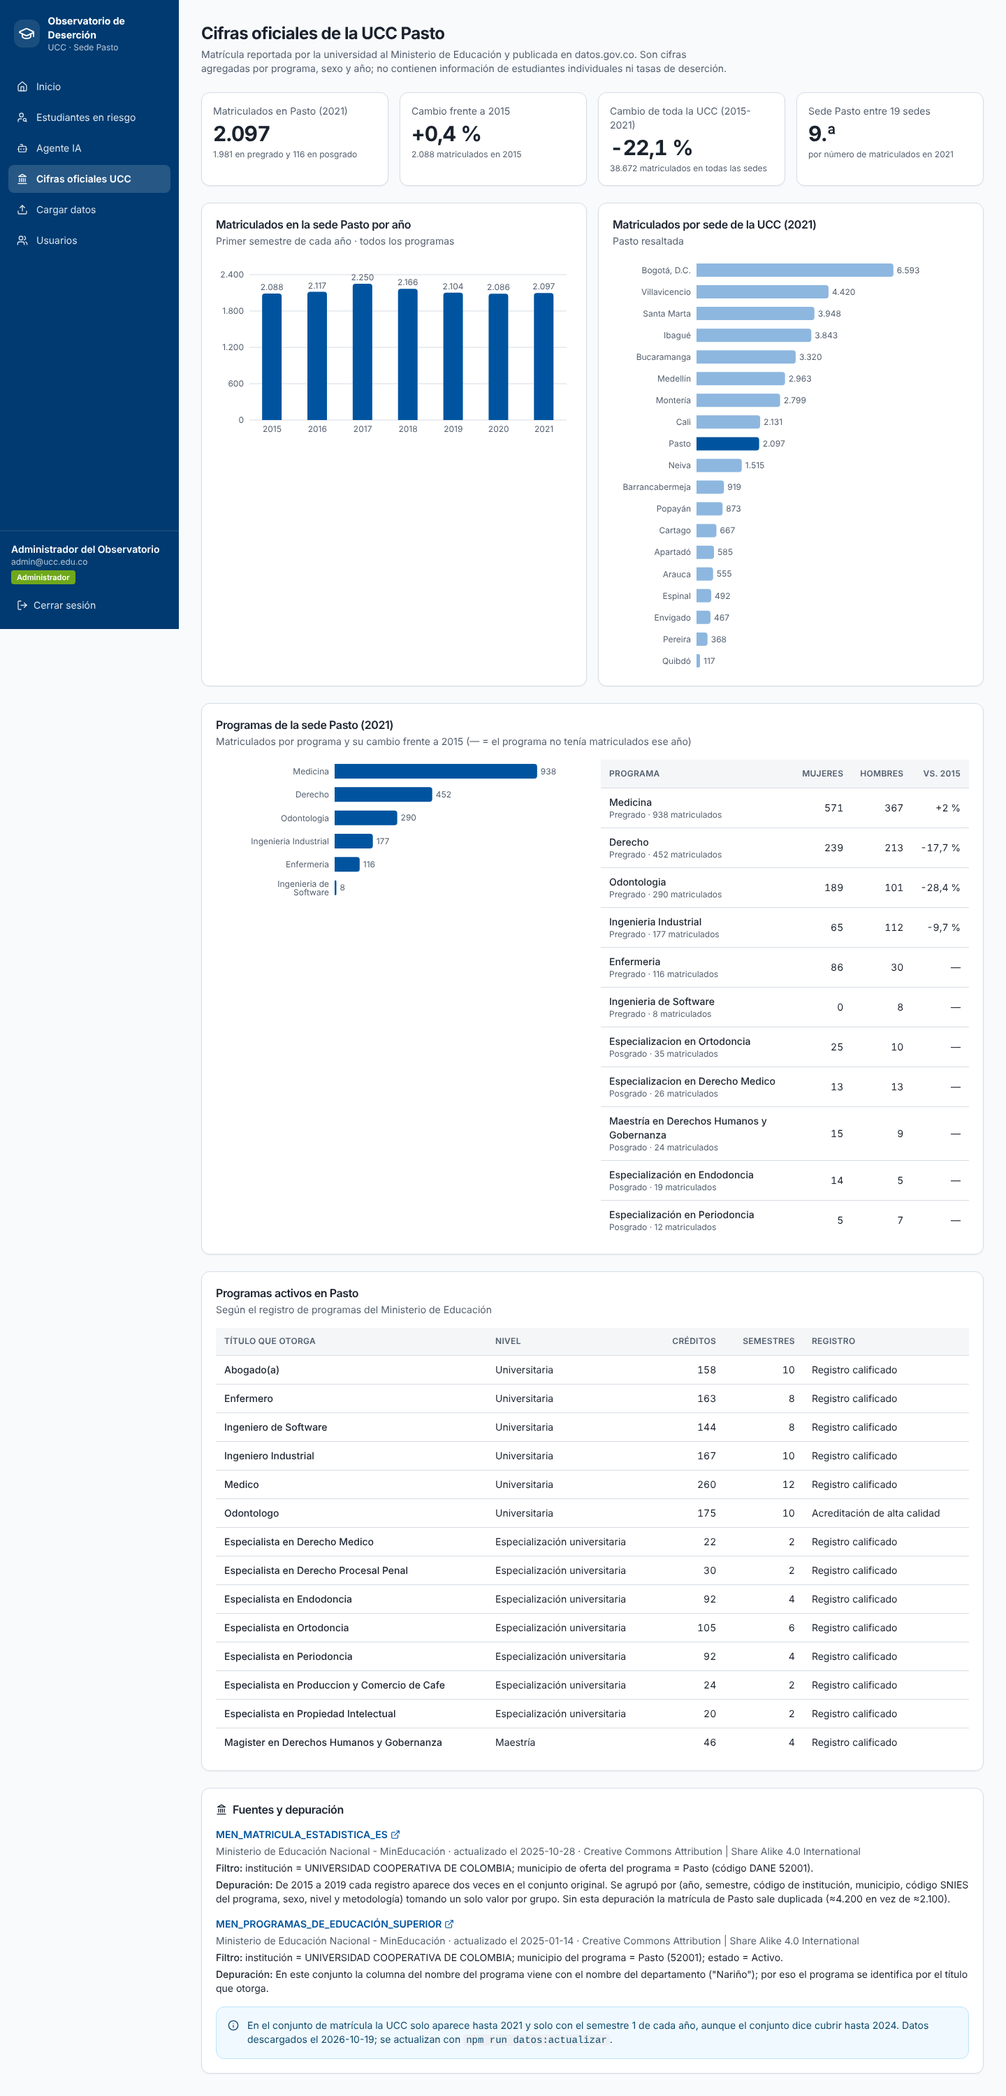
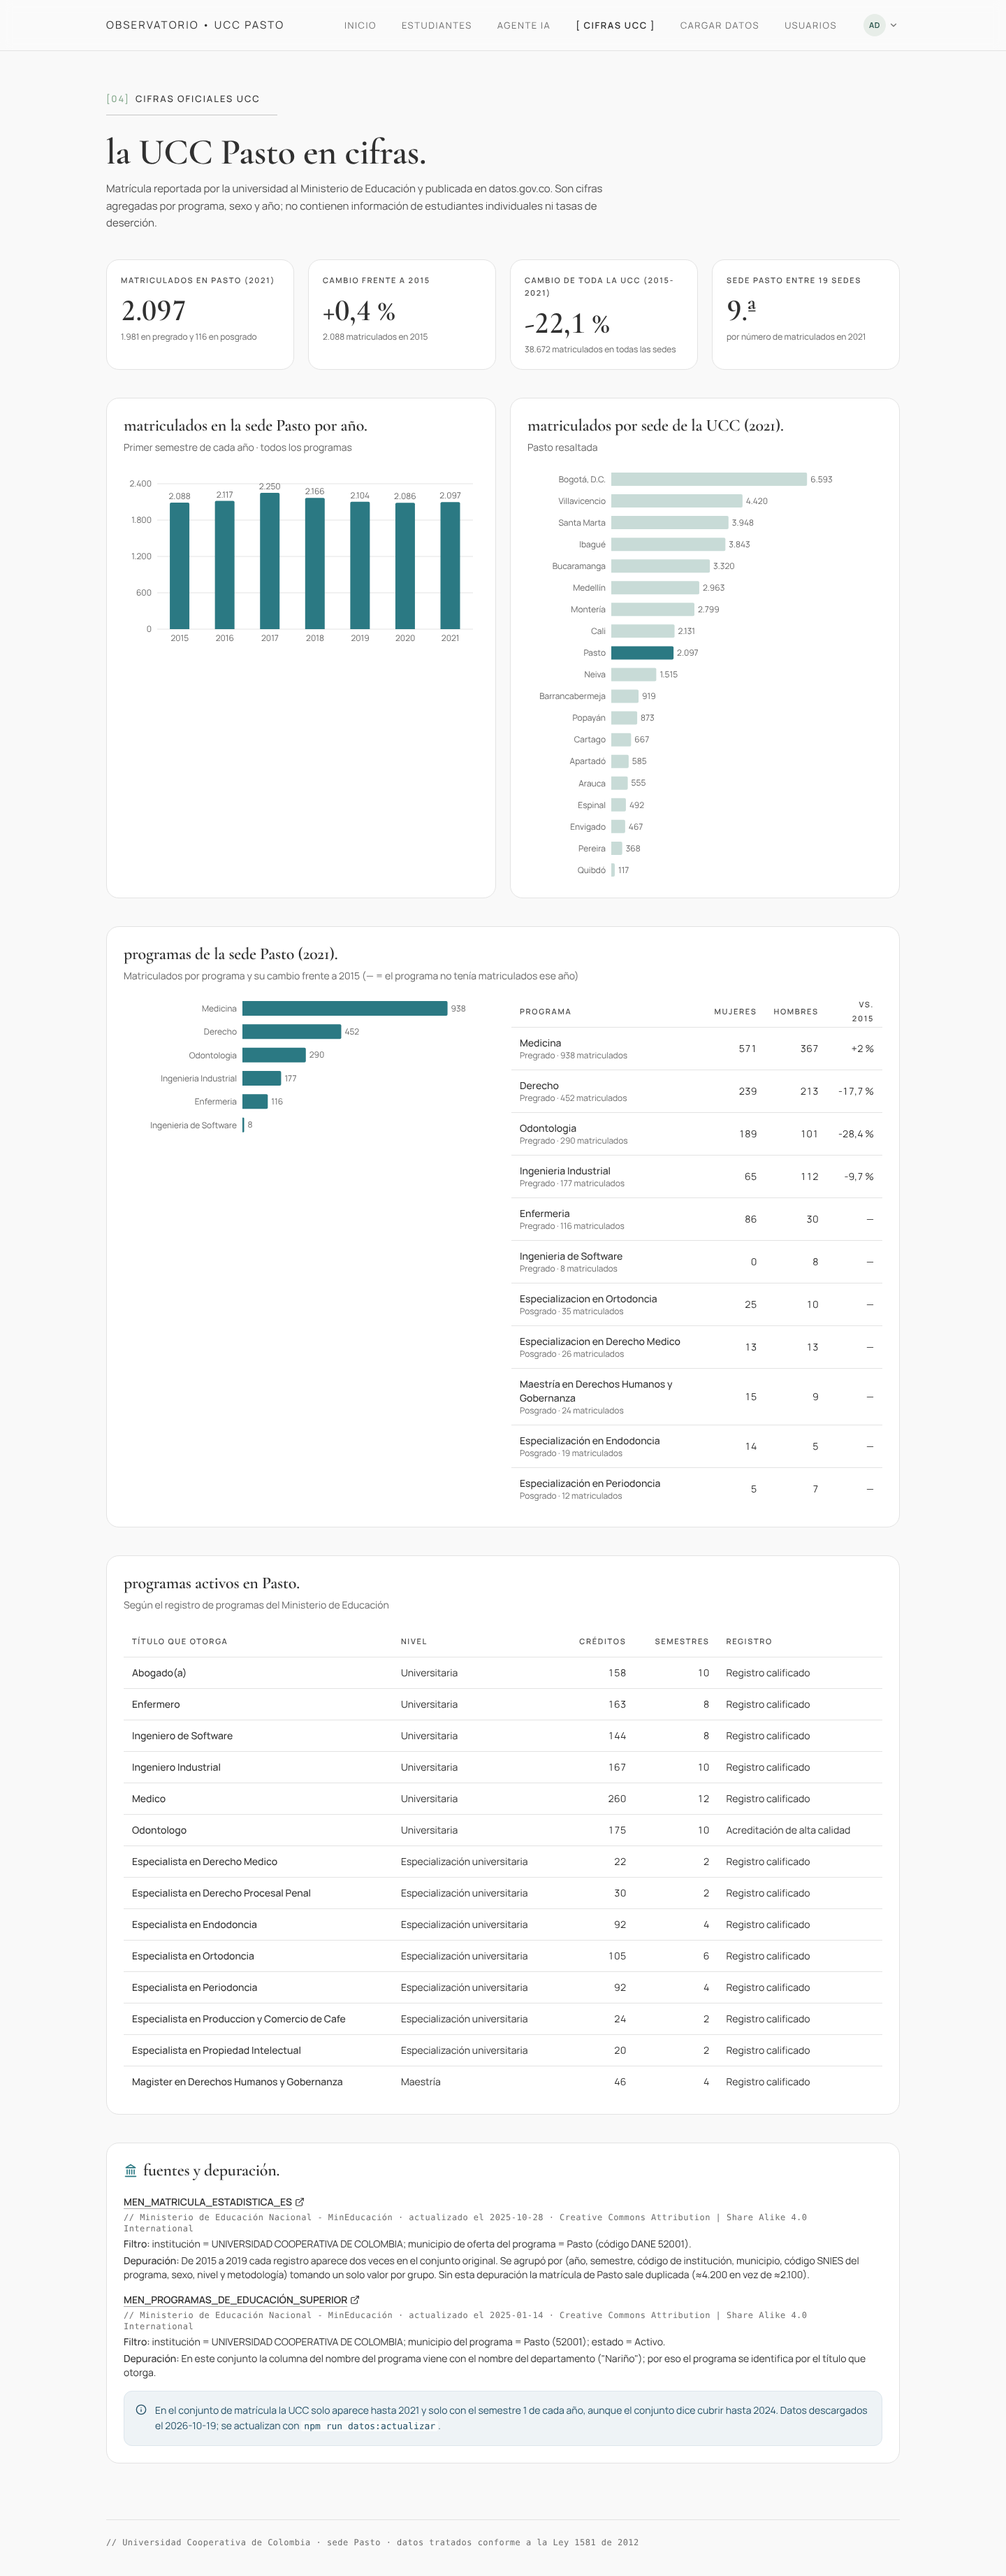
docs: diseño editorial en el README y captura actualizada

diff --git a/README.md b/README.md
@@ -28,6 +28,14 @@ Proyecto final de la asignatura *Programación Orientada a la Web*.
 
 Hay dos roles: **Administrador** (carga datos y gestiona cuentas) y **Bienestar Universitario** (consulta el riesgo y usa el agente).
 
+**Diseño.** Estilo editorial y sobrio:
+
+- fondo papel (`#F9F9F9`) con tinta grafito (`#303030`) y acentos apagados (petróleo, pino, salvia y marino) reservados para datos y estados;
+- títulos en *Cormorant Garamond* (frases cortas en minúsculas que terminan en punto), texto en *Manrope* y detalles técnicos en monoespaciada;
+- barra superior con la sección activa entre corchetes (`[ INICIO ]`) y cejas numeradas en cada página (`[01] INICIO`).
+
+Las fuentes están autoalojadas con `@fontsource` (no se llama a Google Fonts) y la paleta está en `tailwind.config.ts`.
+
 ## 2. De dónde salen los datos
 
 ### 2.1 Cifras oficiales (datos.gov.co)
